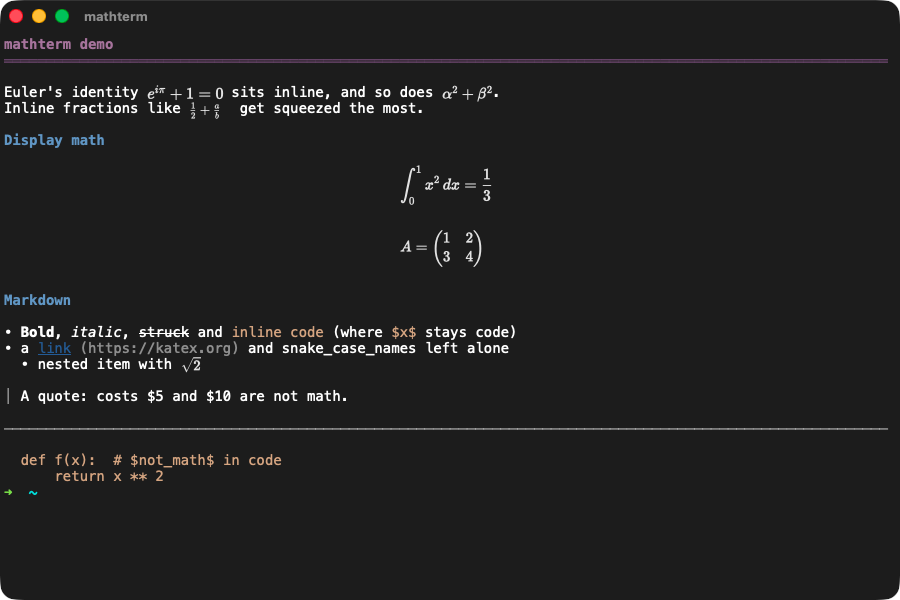
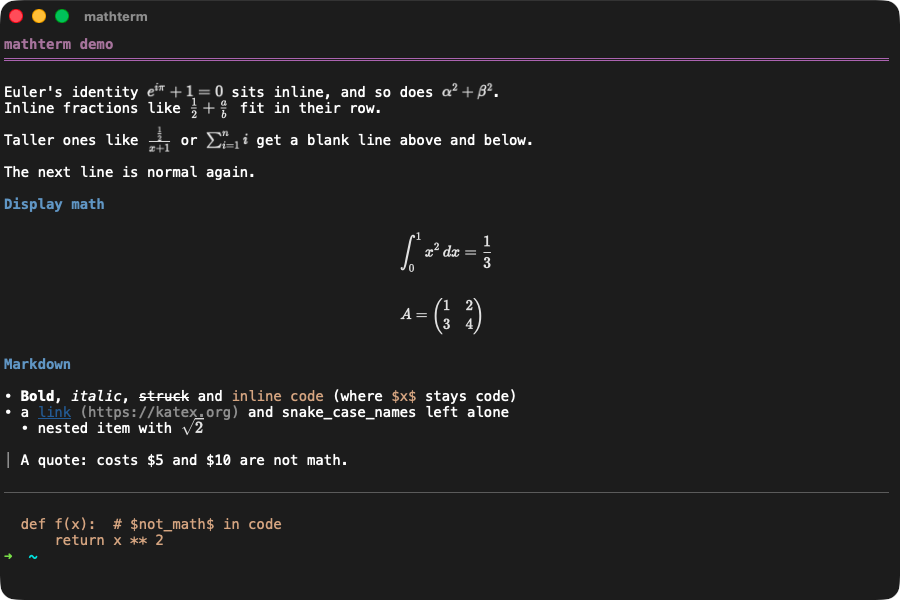
Tall inline math, resize re-placement, terminal-drawn rules
- Fix fraction shrink (scrollHeight counted KaTeX's hidden MathML)
- Tall inline math gets 3 rows; falls back to 1 when wrapped text is adjacent
- Re-place math on resize so it follows re-wrapped text; display math re-centers
- OSC 7777;rule for full-width h1/hr rules that track resizes
- Center overlays with absolute positioning (xterm forces display:block)
- npm run shot works off-screen without stealing focus

diff --git a/ui/renderer.js b/ui/renderer.js
@@ -37,40 +37,99 @@ function cellSize() {
 
 // Inline math may spill this far past its row (split above/below) before being shrunk.
 const INLINE_OVERFLOW = 1.25;
+// Below this scale, inline math is reported as 3 rows tall: the sender adds a blank line above and below.
+const TALL_SCALE = 0.85;
 
-// Size of `tex` in cells. Inline math is squeezed into one row, so its width is taken after scaling.
+// Size of `tex` in cells. Inline width is taken after scaling to fit its rows.
 function measure(tex, display) {
   katex.render(tex, probe, { displayMode: display, throwOnError: false });
   const { width, height } = probe.getBoundingClientRect();
   const [cw, ch] = cellSize();
   if (display) return [Math.ceil(width / cw), Math.ceil(height / ch)];
-  return [Math.ceil((width * Math.min(1, (INLINE_OVERFLOW * ch) / height)) / cw), 1];
+  const s1 = Math.min(1, (INLINE_OVERFLOW * ch) / height);
+  if (s1 >= TALL_SCALE) return [Math.ceil((width * s1) / cw), 1];
+  return [Math.ceil((width * Math.min(1, (3 * ch) / height)) / cw), 3];
 }
 
-function draw(tex, display, cols, rows) {
-  const deco = term.registerDecoration({
-    marker: term.registerMarker(0),
-    x: term.buffer.active.cursorX,
-    width: cols,
-    height: rows,
-    layer: 'top',
-  });
-  deco?.onRender((el) => {
-    if (el.dataset.tex) return;
-    el.dataset.tex = '1';
-    el.classList.add('math', display ? 'display' : 'inline');
+// Everything drawn (math and rules), so it can be re-placed when the terminal is resized and lines re-wrap.
+// `marker` sits on the first row of the logical (unwrapped) line; `offset` is the column within that line.
+const items = [];
+
+// True if row `line` has no text in columns [x, x + width): tall inline math may spill into it.
+function rowFree(line, x, width) {
+  const row = term.buffer.active.getLine(line);
+  return !row || row.translateToString(true, x, x + width).trim() === '';
+}
+
+function place(item) {
+  item.deco?.dispose();
+  item.rowMarker?.dispose();
+  item.rowMarker = null;
+  const b = term.buffer.active, C = term.cols;
+  let line = item.marker.line, x, width = Math.min(item.cols, C);
+  if (item.rule) {
+    x = 0; width = C; // rules always span the current width
+  } else if (item.display) {
+    x = Math.floor((C - width) / 2); // display math is centered by the terminal
+  } else {
+    line += Math.floor(item.offset / C);
+    x = item.offset % C;
+    width = Math.min(width, C - x); // straddling the right edge: shrink rather than spill
+  }
+  // Tall inline math only uses the rows above/below while they're empty under it. After a narrowing
+  // resize they may hold wrapped text, and it falls back to fitting its own row.
+  const room = item.rows > 1 && !item.display && !(rowFree(line - 1, x, width) && rowFree(line + 1, x, width))
+    ? 1 : item.rows;
+  let marker = item.marker;
+  if (line !== marker.line) marker = item.rowMarker = term.registerMarker(line - (b.baseY + b.cursorY));
+  item.deco = term.registerDecoration({ marker, x, width, height: item.display ? item.rows : 1, layer: 'top' });
+  item.deco?.onRender((el) => {
+    if (el.dataset.done) return;
+    el.dataset.done = '1';
+    if (item.rule) {
+      el.classList.add('rule', `rule-${item.rule}`);
+      return;
+    }
+    el.classList.add('math', item.display ? 'display' : 'inline');
     const inner = document.createElement('div');
-    katex.render(tex, inner, { displayMode: display, throwOnError: false });
+    katex.render(item.tex, inner, { displayMode: item.display, throwOnError: false });
     el.appendChild(inner);
-    const maxH = el.clientHeight * (display ? 1 : INLINE_OVERFLOW);
-    const s = Math.min(1, el.clientWidth / inner.scrollWidth, maxH / inner.scrollHeight);
-    inner.style.transform = `scale(${s})`;
+    const maxH = el.clientHeight * (item.display ? 1 : Math.max(INLINE_OVERFLOW, room));
+    // getBoundingClientRect, like measure(): scrollWidth/Height also count KaTeX's hidden MathML copy,
+    // which WebKit lays out taller for fractions and made them shrink for no reason
+    const r = inner.getBoundingClientRect();
+    const s = Math.min(1, el.clientWidth / r.width, maxH / r.height);
+    inner.style.transform = `${item.display ? 'translate(-50%, -50%)' : 'translateY(-50%)'} scale(${s})`;
   });
 }
+
+function draw(fields) {
+  const b = term.buffer.active;
+  const y = b.baseY + b.cursorY;
+  let start = y;
+  while (start > 0 && b.getLine(start)?.isWrapped) start--;
+  const item = {
+    ...fields,
+    marker: term.registerMarker(start - y),
+    offset: (y - start) * term.cols + b.cursorX,
+  };
+  if (!item.marker) return;
+  items.push(item);
+  place(item);
+}
+
+// ponytail: re-renders every item's KaTeX on each resize; cache the rendered HTML if long scrollback gets slow
+term.onResize(() => {
+  for (let i = items.length - 1; i >= 0; i--) {
+    if (items[i].marker.isDisposed) items.splice(i, 1); // scrolled out of the scrollback
+    else place(items[i]);
+  }
+});
 
 // Protocol (see NOTES.md):
 //   query:  OSC 7777 ; ? ; <i|d> ; <latex> BEL      -> reply OSC 7777 ; = ; <cols> ; <rows> BEL
-//   draw:   OSC 7777 ; <cols> ; <rows> ; <i|d> ; <latex> BEL
+//   draw:   OSC 7777 ; <cols> ; <rows> ; <i|d> ; <latex> BEL   (inline rows > 1 = tall, see TALL_SCALE)
+//   rule:   OSC 7777 ; rule ; <h1|hr> BEL                     (full-width line on the current row)
 term.parser.registerOscHandler(7777, (payload) => {
   let m = /^\?;([id]);([\s\S]*)$/.exec(payload);
   if (m) {
@@ -80,7 +139,12 @@ term.parser.registerOscHandler(7777, (payload) => {
   }
   m = /^(\d+);(\d+);([id]);([\s\S]*)$/.exec(payload);
   if (m) {
-    draw(m[4], m[3] === 'd', +m[1], +m[2]);
+    draw({ tex: m[4], display: m[3] === 'd', cols: +m[1], rows: +m[2] });
+    return true;
+  }
+  m = /^rule;(h1|hr)$/.exec(payload);
+  if (m) {
+    draw({ rule: m[1], cols: 0, rows: 1 });
     return true;
   }
   return false;

diff --git a/ui/index.html b/ui/index.html
@@ -8,13 +8,17 @@
   <style>
     html, body { margin: 0; height: 100%; background: #1e1e1e; overflow: hidden; }
     #term { height: 100%; padding: 4px; box-sizing: border-box; }
-    .math { display: flex; align-items: center; overflow: hidden;
-            background: #1e1e1e; color: #e6e6e6; font-size: 14px; pointer-events: none; }
+    /* xterm puts an inline display:block on decorations, so children are positioned, not flexed */
+    .math { overflow: hidden; background: #1e1e1e; color: #e6e6e6; font-size: 14px; pointer-events: none; }
     .math.inline { overflow: visible; }
-    .math > div { display: inline-block; transform-origin: left center; white-space: nowrap; }
+    .math > div { position: absolute; left: 0; top: 50%; white-space: nowrap; transform-origin: left center; }
+    .math.display > div { left: 50%; transform-origin: center; }
     .math-probe { position: absolute; top: 0; left: 0; visibility: hidden;
                   display: inline-block; white-space: nowrap; font-size: 14px; }
     .math .katex-display, .math-probe .katex-display { margin: 0; }
+    .rule { pointer-events: none; }
+    .rule::after { content: ''; position: absolute; left: 0; right: 0; top: 50%; border-top: 1px solid #666; }
+    .rule-h1::after { top: calc(50% - 2px); border-top: 3px double #b16fbd; }
   </style>
 </head>
 <body>

diff --git a/src-tauri/src/main.rs b/src-tauri/src/main.rs
@@ -83,15 +83,28 @@ fn resize(session: State<Session>, cols: u16, rows: u16) {
     }
 }
 
-/// dev hook: after a few seconds, screenshot just this window to $MATHTERM_SHOT and quit.
-fn shot_after_delay(app: AppHandle, path: String) {
+/// dev hook: screenshot just this window to $MATHTERM_SHOT after a few seconds, then quit.
+/// The window is parked off-screen and the app never activates, so it doesn't interrupt whoever is using
+/// the machine. That works because background throttling is disabled (tauri.conf.json): WebKit keeps
+/// painting the window even though nothing on screen shows it.
+fn shot_after_delay(app: &mut tauri::App, path: String) {
+    app.set_activation_policy(tauri::ActivationPolicy::Accessory); // no Dock icon, no focus steal
+    let app = app.handle().clone();
+    if let Some(w) = app.get_webview_window("main") {
+        let _ = w.set_position(tauri::LogicalPosition::new(-20000.0, 0.0));
+    }
     std::thread::spawn(move || {
-        std::thread::sleep(std::time::Duration::from_secs(5));
         if let Some(w) = app.get_webview_window("main") {
-            // WebKit doesn't paint occluded windows, so bring it forward first. Capturing by window id (-l)
-            // keeps other windows or system UI that's on top out of the shot.
-            let _ = w.set_focus();
-            std::thread::sleep(std::time::Duration::from_millis(700));
+            // MATHTERM_SHOT_SIZE=WxH resizes before the shot, to check how math is re-placed after reflow
+            std::thread::sleep(std::time::Duration::from_secs(4));
+            let size = std::env::var("MATHTERM_SHOT_SIZE").ok();
+            if let Some((sw, sh)) = size.as_deref().and_then(|s| s.split_once('x')) {
+                if let (Ok(sw), Ok(sh)) = (sw.parse::<f64>(), sh.parse::<f64>()) {
+                    let _ = w.set_size(tauri::LogicalSize::new(sw, sh));
+                }
+            }
+            std::thread::sleep(std::time::Duration::from_secs(1));
+            // capture by window id (-l): works off-screen and never includes other windows
             let ns = w.ns_window().unwrap() as *const objc2::runtime::AnyObject;
             let id: isize = unsafe { objc2::msg_send![&*ns, windowNumber] };
             let _ = std::process::Command::new("screencapture")
@@ -106,7 +119,7 @@ fn main() {
     tauri::Builder::default()
         .setup(|app| {
             if let Ok(path) = std::env::var("MATHTERM_SHOT") {
-                shot_after_delay(app.handle().clone(), path);
+                shot_after_delay(app, path);
             }
             Ok(())
         })

diff --git a/NOTES.md b/NOTES.md
@@ -24,10 +24,18 @@ listener, so the first prompt isn't lost.
 query:  ESC ] 7777 ; ? ; <i|d> ; <latex> BEL           (program -> terminal)
 reply:  ESC ] 7777 ; = ; <cols> ; <rows> BEL            (terminal -> program, on its stdin/tty)
 draw:   ESC ] 7777 ; <cols> ; <rows> ; <i|d> ; <latex> BEL
+rule:   ESC ] 7777 ; rule ; <h1|hr> BEL                 (full-width line on the current row)
 ```
 
-- `i` = inline (squeezed into one row), `d` = display.
-- `draw` overlays KaTeX on a `cols x rows` box starting at the cursor. The **sender** reserves the space:
+- `i` = inline, `d` = display.
+- Inline `rows` is 1 (fits its row, may spill 25% above/below) or 3 ("tall": scale would drop below
+  `TALL_SCALE` = 0.85, so the sender puts a blank line above and below that line and the math is drawn
+  centered on its row with up to 3 rows of height). On every placement the terminal checks that the rows
+  above and below are empty under the math; if not (e.g. wrapped text after a resize), it fits one row.
+- Display math is centered by the terminal (x is ignored), which keeps it centered after a resize.
+- `rule` lines are drawn by the terminal at the current width, so they never wrap. Outside mathterm,
+  `mdv` falls back to `═`/`─` characters.
+- `draw` overlays KaTeX on a `cols x rows` box at the cursor. The **sender** reserves the space:
   spaces after an inline draw, newlines after a display draw. The terminal never moves the cursor.
 - LaTeX must not contain newlines, ESC or BEL (mdv collapses whitespace).
 - Replies arrive in query order. `mdv` sends all queries in one batch, reads replies from `/dev/tty` in raw
@@ -44,12 +52,44 @@ npm run shot       # launch, run `mdv demo.md`, screenshot just the window to sh
 bin/mdv --test     # mdv self-check
 ```
 
-- Dev hooks (in `main.rs`): `MATHTERM_INIT` (command typed at startup), `MATHTERM_SHOT` (after 5s, focus
-  the window and `screencapture -l <window id>` to that path, then quit). It briefly steals focus, because
-  WebKit doesn't paint occluded windows and the capture comes out blank otherwise.
+- Dev hooks (in `main.rs`): `MATHTERM_INIT` (command typed at startup), `MATHTERM_SHOT` (screenshot to that
+  path after 5s, then quit), `MATHTERM_SHOT_SIZE=WxH` (resize before the shot, to test reflow).
+- Shot mode never touches the screen. The window is parked off-screen, the app uses the Accessory
+  activation policy (no Dock icon, no focus steal), and the capture is `screencapture -l <window id>`.
+  This relies on `backgroundThrottling: "disabled"` in `tauri.conf.json`: without it, WebKit stops painting
+  a window that isn't visible (e.g. when you click away) and the shot comes out blank or missing.
+- Gotcha: xterm sets an inline `display: block` on decoration elements, so CSS `display: flex` on them is
+  ignored. Overlay children are absolutely positioned instead.
 - `src-tauri/icons/icon.png` is a placeholder (Tauri needs one to compile). Run `npx tauri icon <png>` for a real one.
 
 ## Changelog
+
+### 2026-11-11: rough edges: tall overlap, rules, screenshots
+- **Tall inline math vs. re-wrapped text:** `place()` checks the rows above/below for text under the math
+  (`rowFree`) and falls back to the 1-row size if either is occupied. Re-checked on every resize, so it
+  regains full size when the window widens again.
+- **Rules:** new `OSC 7777;rule;<h1|hr>`. The terminal draws a full-width line and re-places it on resize.
+  `mdv` uses it for the h1 underline and `---`.
+- **Centering bug:** `.math` relied on `display: flex`, which xterm's inline `display: block` overrode, so
+  inline math sat at the top of its row and only spilled downward. Overlay content is now absolutely
+  positioned and centered with `translate(-50%)`.
+- **`npm run shot` reliability:** shots failed when the window got covered (e.g. clicking away while working).
+  Disabled background throttling. Shot mode now parks the window off-screen, never activates the app,
+  and no longer calls `set_focus`.
+
+### 2026-11-11: tall inline math, resize re-placement
+- **Fixed fraction shrink bug.** Drawing scaled with `scrollWidth/Height`, which also counts KaTeX's hidden
+  MathML copy. WebKit lays that copy out taller for fractions, so they rendered at ~0.6x even though they fit.
+  Drawing now uses `getBoundingClientRect`, like `measure()`. Simple fractions render at full size in one row.
+- **Tall inline math:** if the scale would still drop below 0.85 (nested fractions, `\sum` with limits), the
+  terminal reports `rows = 3` and `mdv` adds a blank line above and below that line.
+- **Resize:** each drawn expression is stored with a marker on the first row of its logical line plus a
+  column offset. On `term.onResize` every decoration is re-placed at `row = offset / cols`,
+  `x = offset % cols`, so inline math follows its text when lines re-wrap. Display math is re-centered.
+  Expressions whose marker has left the scrollback are dropped.
+- `mdv` no longer pads display math with spaces (the terminal centers it). Padding was real cells that would
+  wrap on narrow windows.
+- Added `MATHTERM_SHOT_SIZE`. Verified at 900 and 380 px wide.
 
 ### 2026-11-11: markdown styling in mdv
 - `mdv` styles headings (h1 magenta with a rule, h2+ blue), bold, italic (`*` and `_`, but not snake_case),
@@ -92,14 +132,10 @@ bin/mdv --test     # mdv self-check
 
 Roughly in priority order:
 
-1. **Inline fractions are small.** Inline math now gets 1.25 rows, which covers superscripts. Next option if
-   fractions bother us: give inline math 2 rows when its scale would drop below ~0.7 (cost: uneven line spacing).
-2. **Markdown gaps.** Tables print raw. Code blocks have no syntax highlighting (pygments isn't stdlib).
+1. **Markdown gaps.** Tables print raw. Code blocks have no syntax highlighting (pygments isn't stdlib).
    Links aren't clickable (would need OSC 8 + an xterm.js link handler + Tauri's opener plugin).
-3. **Resize / reflow.** Decorations keep their original x and line, so window resizes misalign them.
-   Re-render on resize, or drop math whose line reflowed.
-4. **Line wrap.** Inline math that straddles the right edge is clipped. `mdv` could wrap the text itself.
-5. **Selection / copy.** Copying a math region yields spaces. Could put the LaTeX source on the clipboard.
-6. **`tex` one-liner** (`tex '\sqrt{2}'`) and a shell hook so normal command output can contain math.
-7. Later: tabs/splits, config (font, theme), packaging as a `.app` (needs `bin/` bundled as a resource,
+2. **Line wrap.** Inline math that straddles the right edge is clipped. `mdv` could wrap the text itself.
+3. **Selection / copy.** Copying a math region yields spaces. Could put the LaTeX source on the clipboard.
+4. **`tex` one-liner** (`tex '\sqrt{2}'`) and a shell hook so normal command output can contain math.
+5. Later: tabs/splits, config (font, theme), packaging as a `.app` (needs `bin/` bundled as a resource,
    real icons, `bundle.active = true`).

diff --git a/README.md b/README.md
@@ -40,14 +40,16 @@ With output redirected (`mdv f.md > out`) it prints the file unchanged.
 
 Early prototype. What works:
 
-- Inline and display math in markdown, sized by the terminal and centered.
+- Inline and display math in markdown, sized by the terminal. Display math is centered, and tall inline
+  math (nested fractions, sums with limits) gets extra line spacing.
+- Math and rules follow their text when the window is resized and lines re-wrap.
 - Markdown styling: headings, bold/italic/strikethrough, inline and fenced code, lists, quotes, rules, links.
 - `$5`-style dollar amounts, code spans and code blocks are never treated as math.
 
 Known gaps:
 
-- Inline fractions render small, because inline math stays within one row (+25%).
 - Tables print raw. Code blocks have no syntax highlighting. Long lines aren't re-wrapped.
-- Resizing the window misplaces math that's already on screen.
+- Text printed before a resize keeps its original line spacing. For example, tall inline math shrinks to
+  one row instead of gaining space if its line re-wraps.
 
 The full plan and changelog are in [NOTES.md](NOTES.md).

diff --git a/demo.md b/demo.md
@@ -1,7 +1,9 @@
 # mathterm demo
 
 Euler's identity $e^{i\pi} + 1 = 0$ sits inline, and so does $\alpha^2 + \beta^2$.
-Inline fractions like $\frac{1}{2} + \frac{a}{b}$ get squeezed the most.
+Inline fractions like $\frac{1}{2} + \frac{a}{b}$ fit in their row.
+Taller ones like $\frac{\frac{1}{2}}{x+1}$ or $\sum_{i=1}^{n} i$ get a blank line above and below.
+The next line is normal again.
 
 ## Display math
 
